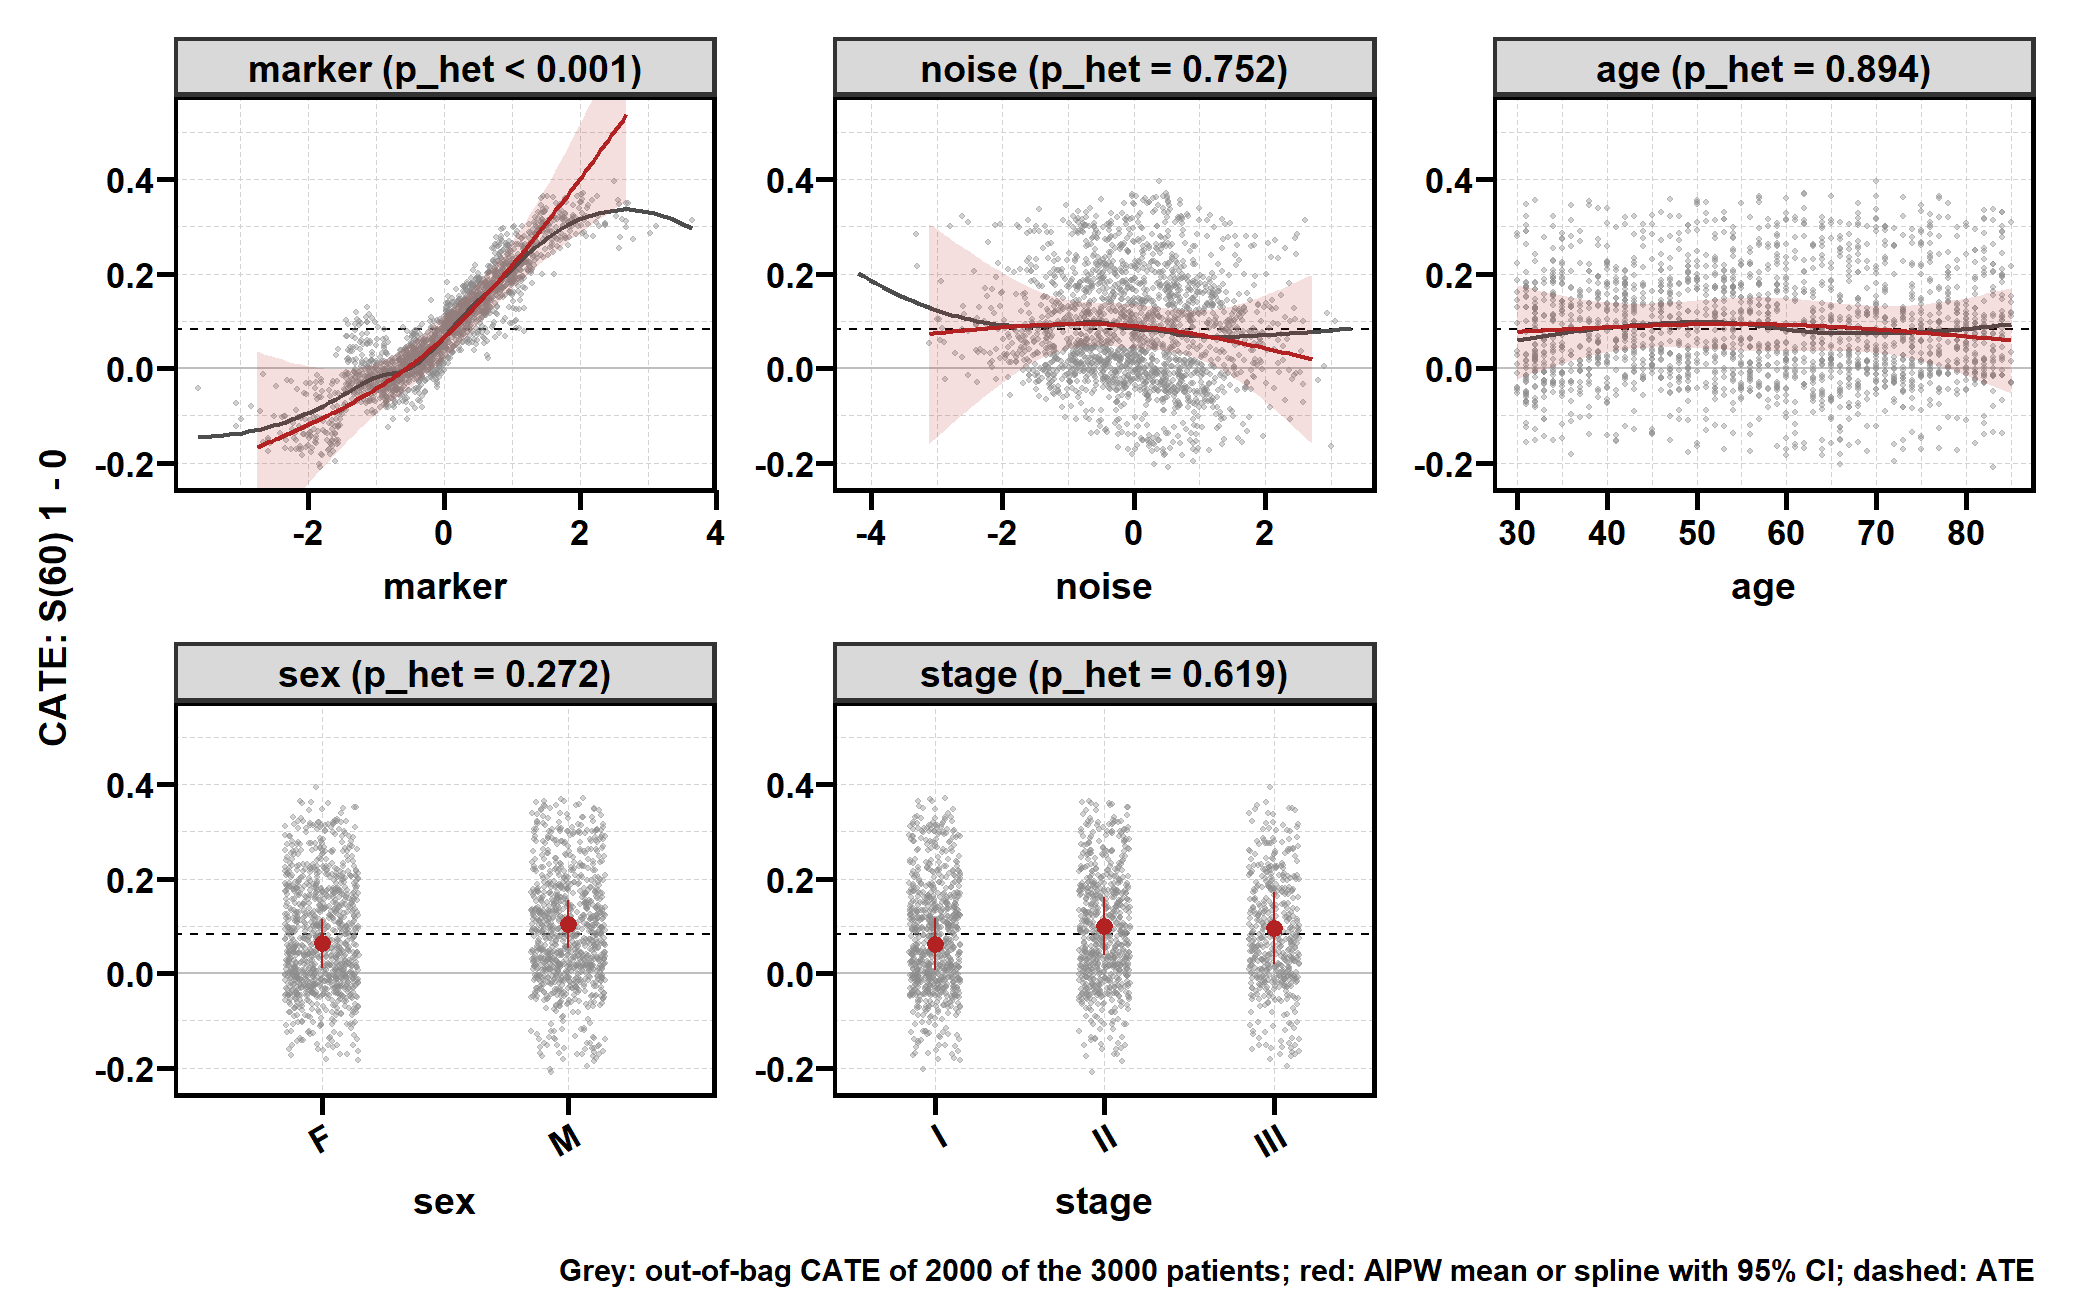
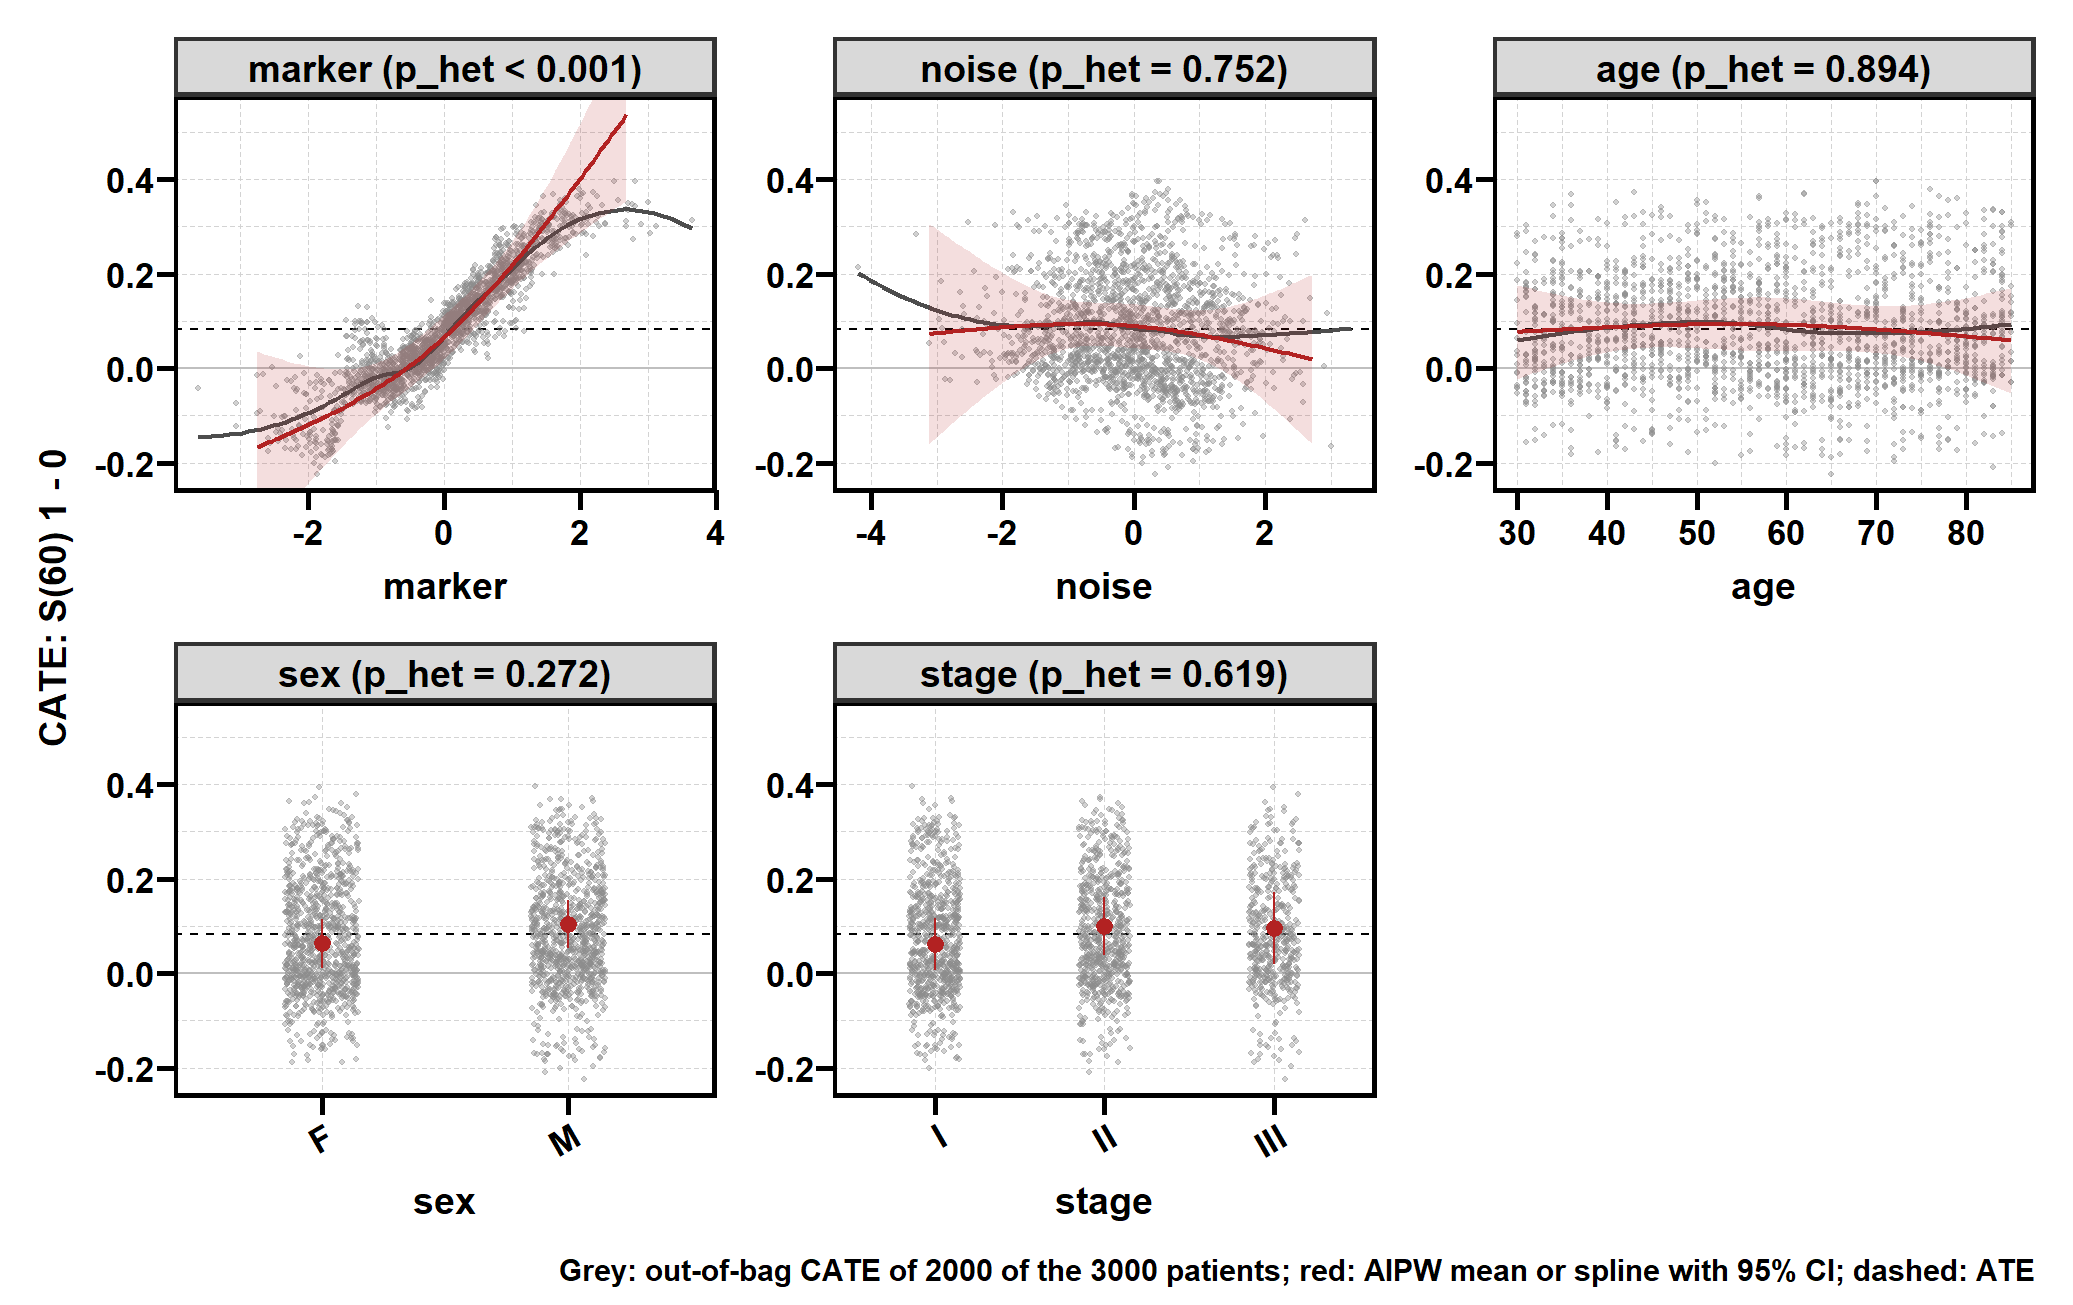
Re-render the get_hte() chapter with randomly sampled patients
plt_hte_dep() now draws its 1000 partial-dependence patients and 2000 grey
points as a fixed-seed random sample (489eccc), so the dependence and heat
map figures change; the other eight figures are byte-identical. The pdp_args
row of the argument table says the grid follows quantiles and the patients
are a fixed-seed random draw instead of "evenly spaced". Only this page's
search and sitemap entries change.

diff --git a/docs/notes/causalR/01-hte.html b/docs/notes/causalR/01-hte.html
@@ -2552,7 +2552,7 @@ window.Quarto = {
 <tr class="odd">
 <td><code>pdp_args</code></td>
 <td><code>list(grid_n = 21, max_n = 1000)</code></td>
-<td>部分依赖的网格点数与参与平均的最多患者数（等距抽取，不依赖随机种子）</td>
+<td>部分依赖的网格点数（连续变量取分位数）与参与平均的最多患者数（固定种子随机抽取，不受当前随机种子影响）</td>
 </tr>
 <tr class="even">
 <td><code>axis_arg</code></td>
